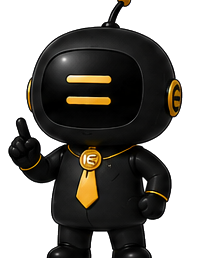
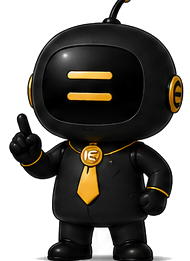
イコール君の指先切れを修正（キャラ画像を正本シートから完全版で切り出し直し）

diff --git a/index.html b/index.html
@@ -604,8 +604,8 @@ footer{background:#1a1a19;color:var(--body-c);padding:80px 0 36px;border-top:1px
         <div class="stage-halo"></div>
         <div class="stage-ring"></div>
         <img class="hero-logo" src="img/logo-full.png" alt="Equal Core ロゴ" width="560" height="534">
-        <div class="orbit o1"><img src="img/kun-equal.png" alt="イコール君" width="166" height="258"></div>
-        <div class="orbit o2"><img src="img/kun-core.png" alt="コア君" width="206" height="258"></div>
+        <div class="orbit o1"><img src="img/kun-equal.png" alt="イコール君" width="197" height="261"></div>
+        <div class="orbit o2"><img src="img/kun-core.png" alt="コア君" width="190" height="261"></div>
       </div>
     </div>
   </div>
@@ -992,7 +992,7 @@ footer{background:#1a1a19;color:var(--body-c);padding:80px 0 36px;border-top:1px
   <div class="chat-row">
     <div class="chat-bubble" id="chatMsg">御社の会社運営、属人化していませんか？</div>
     <button class="chat-pair" onclick="location.href='#contact'" aria-label="無料相談へ">
-      <img src="img/pair.png" alt="イコール君とコア君" width="372" height="258">
+      <img src="img/pair.png" alt="イコール君とコア君" width="387" height="261">
     </button>
   </div>
 </div>

diff --git a/support.html b/support.html
@@ -53,7 +53,7 @@ footer{text-align:center;font-size:12px;color:var(--muted);padding:30px 0 0}
   </header>
 
   <div class="hero">
-    <img src="img/pair.png" alt="イコール君とコア君「おまかせください！」" width="372" height="258" style="width:210px">
+    <img src="img/pair.png" alt="イコール君とコア君「おまかせください！」" width="387" height="261" style="width:210px">
     <div class="eyebrow">REMOTE SUPPORT</div>
     <h1>リモートサポート</h1>
     <p class="lead">担当者がお電話でご案内しながら、お客様のパソコンを遠隔でサポートします。<br>下の手順に沿って進めてください。</p>
